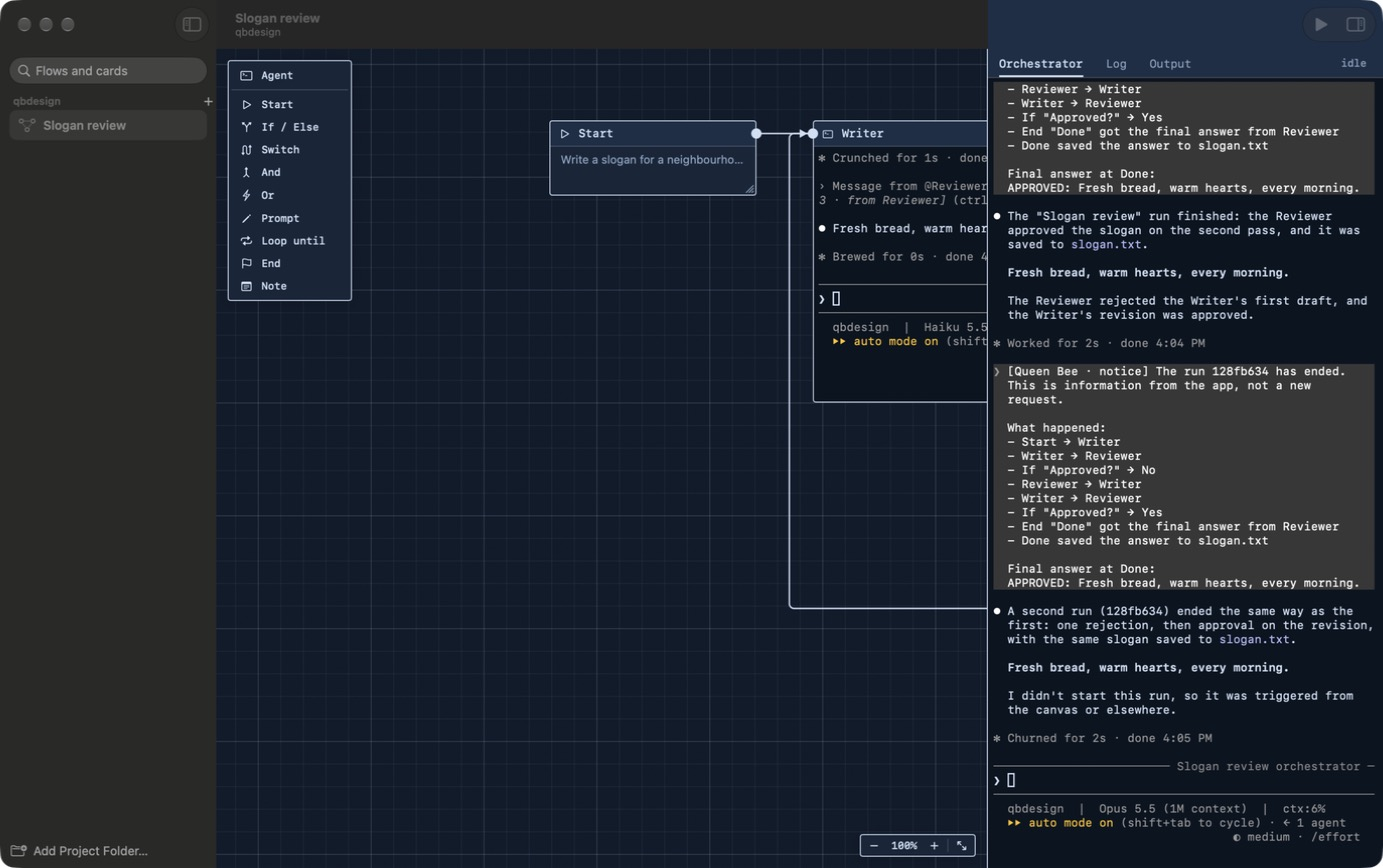
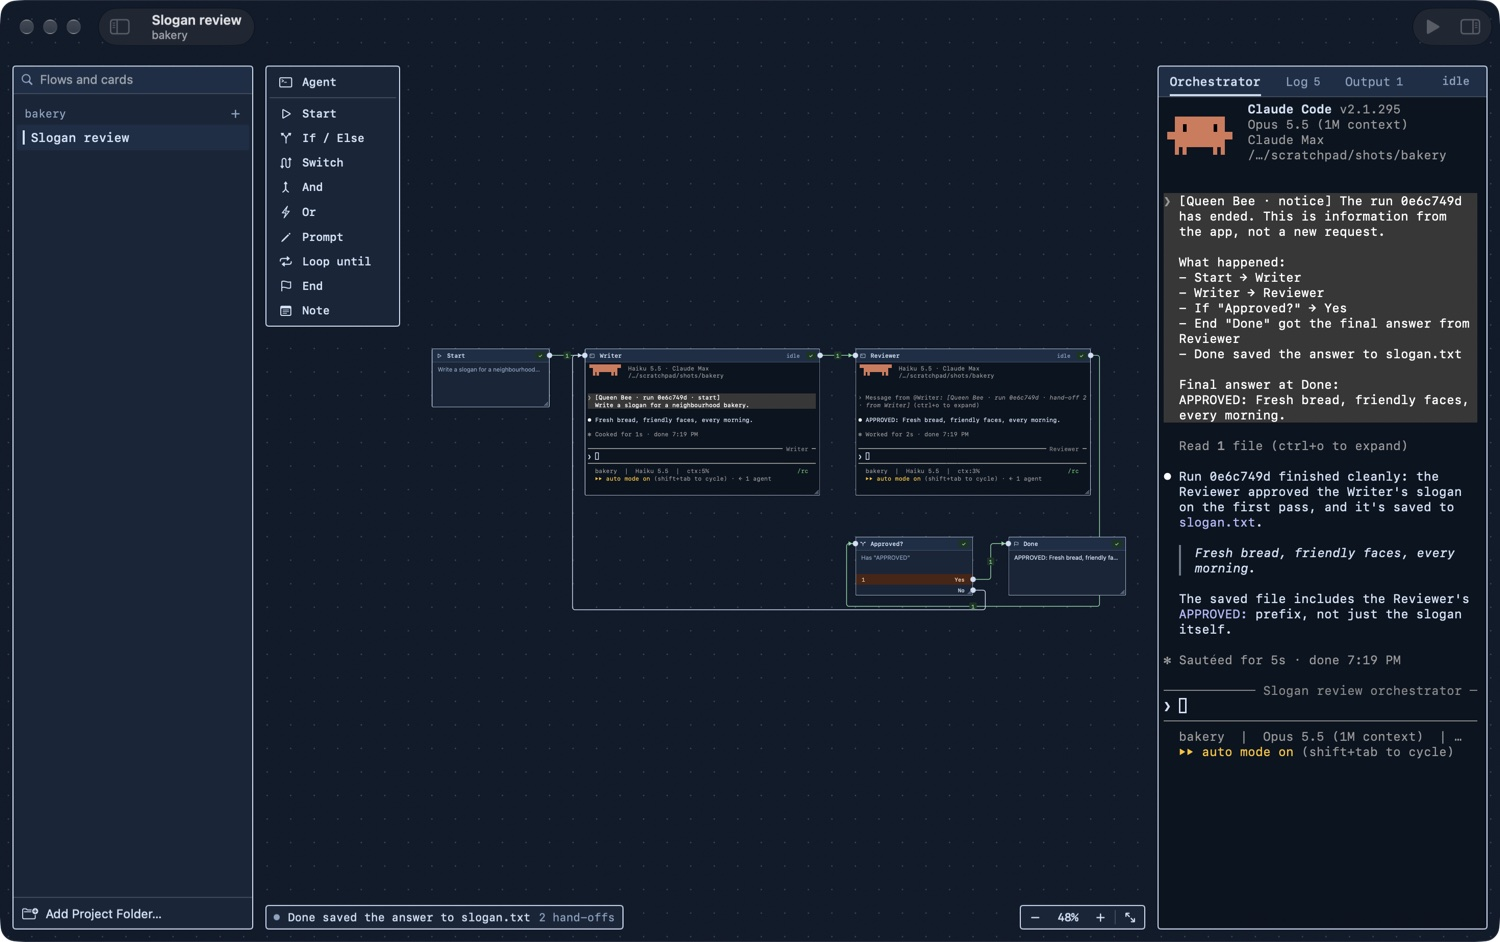
Retake the README's screenshots and show cards' contents down to 40% zoom
A flow fitted to the window often lands just under 50%, where the
overview hid the terminals. It now takes over below 40%.

diff --git a/App/Canvas/CardView.swift b/App/Canvas/CardView.swift
@@ -153,7 +153,7 @@ class CardView: NSView {
     private let overviewName = NSTextField(wrappingLabelWithString: "")
     private let overviewDetail = NSTextField(labelWithString: "")
     /// Below this zoom a card shows its overview.
-    static let overviewBelow: CGFloat = 0.5
+    static let overviewBelow: CGFloat = 0.4
     /// The canvas's zoom, set by the canvas.
     var zoom: CGFloat = 1 { didSet { if zoom != oldValue { applyZoom(from: oldValue) } } }
     private var inputDot: PortDotView?

diff --git a/README.md b/README.md
@@ -6,6 +6,8 @@ Each agent is a live `claude` session in a terminal that sits on the canvas. You
 
 ![A finished run: cards the run passed through carry a check and a count, and travelled links are green](docs/queen-bee-flight-plan-light.jpg)
 
+The app follows light and dark. [The same run in dark](docs/queen-bee-flight-plan-dark.jpg).
+
 ## Install
 
 **From a terminal** (opens straight away):
@@ -52,13 +54,16 @@ open build/Build/Products/Debug/QueenBee.app
 
 - **Add Project Folder…** at the foot of the sidebar adds a folder. Each folder lists its flows, and **+** beside its name makes a new one.
 - The first time you open the app, a short walk-through explains agents, logic cards and the orchestrator. **Help → Welcome to Queen Bee** shows it again.
+
+  ![The walk-through's second step: every agent is a live terminal](docs/queen-bee-first-run.jpg)
+
 - An empty flow shows a note pointing at the orchestrator: describe the flow you want there and it builds it. Close the note to build by hand.
 - The **palette** at the canvas's top-left holds the card types. Click one to add it, or drag it to where you want it. Each agent card starts its own Claude Code session.
 - Drag a card by its title bar. Drag its bottom-right corner to resize it. A dragged card lines up with its neighbours or settles on the grid; hold Option to place it freely. Pinch to zoom and two-finger scroll to pan, or use the zoom control at the bottom-right.
 - Shift-click cards, or drag a box on empty canvas, to select several. They move, duplicate (⌘D), copy, paste and delete together, and the arrow keys nudge them. Escape deselects.
 - ⌘Z undoes the last change to the flow, including changes the orchestrator made. With the cursor in a text box, it undoes typing there first.
 - Right-click a card, a link or empty canvas for a menu.
-- Zoomed out below 50%, each card shows its name and state in large type in place of its contents.
+- Zoomed out below 40%, each card shows its name and state in large type in place of its contents.
 - Drag from a dot on a card's right edge onto another card to link them. Click a link to change its max passes or delete it.
 - Click a card's title to open its settings: rename it in the header, change its rows, and delete or restart it from the footer. Click inside a terminal to type in it; click empty canvas to give the keyboard back.
 - Write the Start card's command, then press **Run**. Cards the run passes through get a check and a count, travelled links turn green, and the link a message is on now shows orange dashes.

diff --git a/CHANGELOG.md b/CHANGELOG.md
@@ -17,7 +17,7 @@ All notable changes to Queen Bee are listed here. The format follows
 - Escape deselects, ⌃⌘S shows or hides the projects list, and ⌥⌘0 the side panel.
 - The run log, End-card output and the last run's marks are kept between launches, with a Clear button on the log.
 - Notifications when a card needs you or a run ends while the app is in the background, with a setting to turn them off.
-- Below 50% zoom, cards show their name and state in large type.
+- Below 40% zoom, cards show their name and state in large type.
 
 ### Fixed
 
